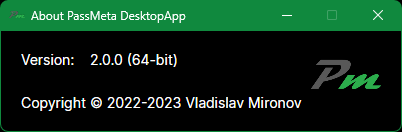
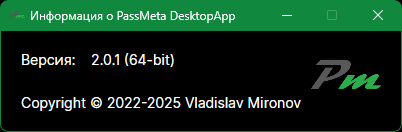
readme updated

Changed region(s): [[0.0299, 0.3939, 0.4478, 0.5152], [0.0597, 0.0606, 0.597, 0.1818], [0.4179, 0.7273, 0.7761, 0.8182]]

diff --git a/readme.md b/readme.md
@@ -1,5 +1,5 @@
 # PassMeta Desktop App — *your passwords SAFE*
-#### © 2024 Vladislav Mironov
+#### © 2025 Vladislav Mironov
 
 
 ### About the project
